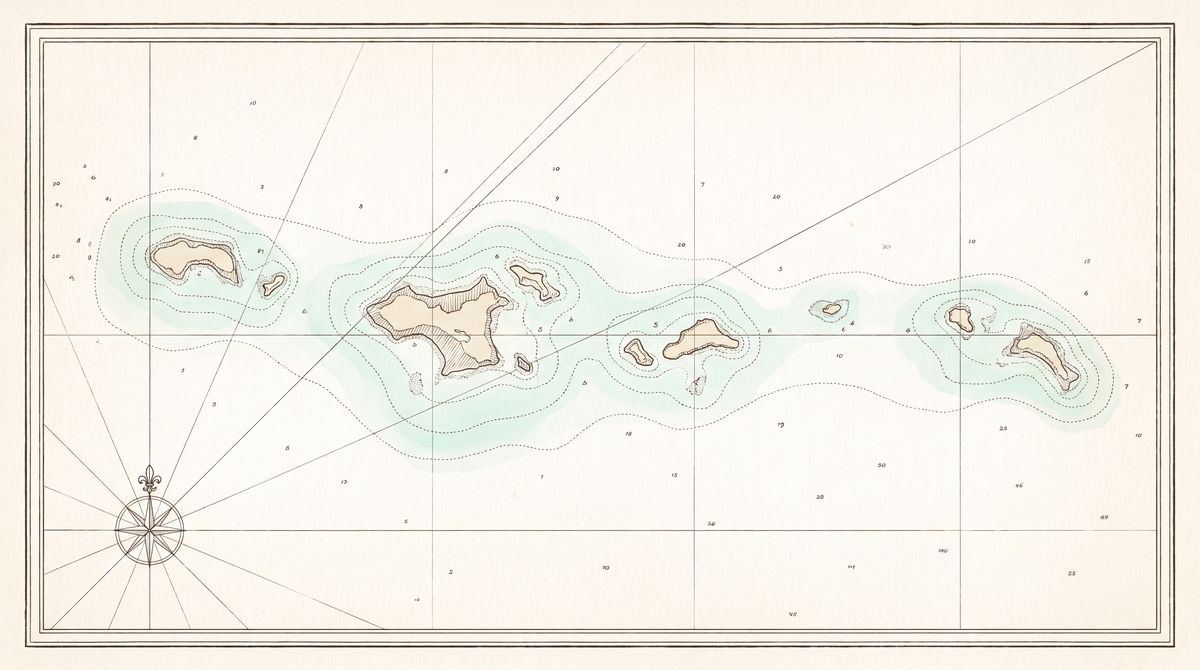
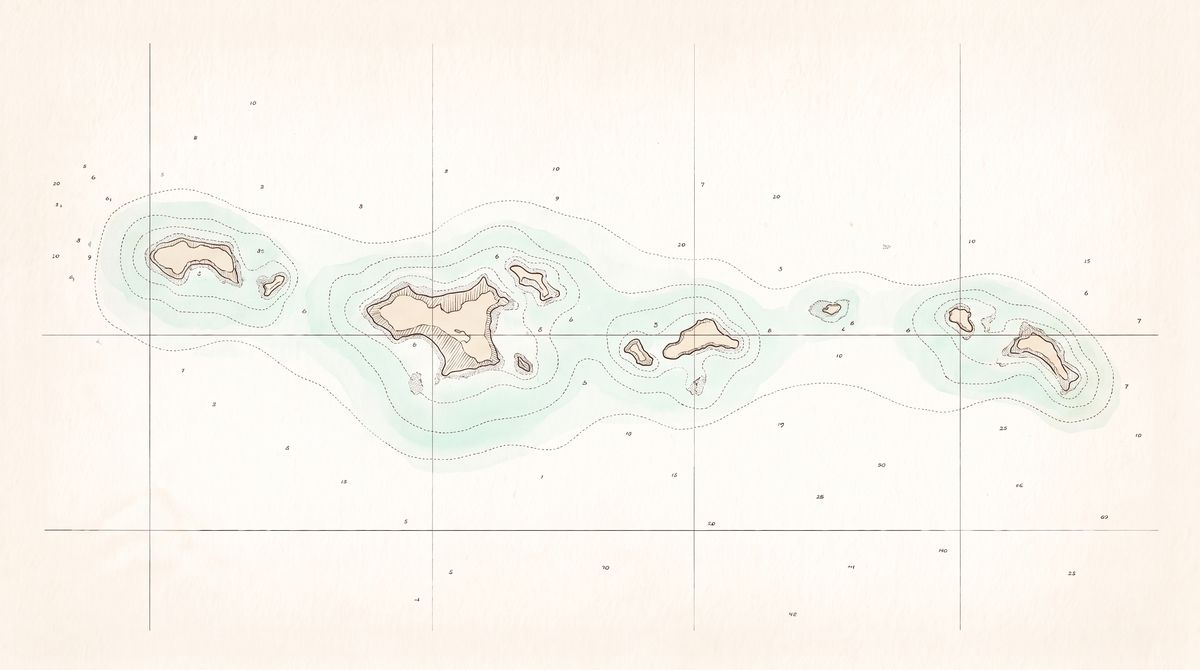
Casa Verde: carta de fondo más limpia con nombre y botones en fila; brújula con magnetismo al norte; hover interactivo en botones de reserva

diff --git a/js/casas.js b/js/casas.js
@@ -256,8 +256,9 @@
       '</div></section>' +
 
       /* CTA */
-      '<section class="section cta-band' + (c.brujula ? ' cta-band--compass' : '') + (c.carta ? ' cta-band--carta' : '') + '"><div class="container text-center stack stack--center">' +
+      '<section class="section cta-band' + (c.brujula ? ' cta-band--compass' : '') + (c.carta ? ' cta-band--carta' : '') + '">' +
         (c.carta ? cartaHTML(c) : '') +
+        '<div class="container text-center stack stack--center">' +
         (c.brujula ? '<div class="cta-compass" aria-hidden="true"><span class="compass-ring"></span><span class="compass-ring compass-ring--2"></span><img class="compass-rose" src="' + esc(c.brujula) + '" alt="" loading="lazy" decoding="async"></div>' : '') +
         '<h2 class="h2">' + esc(c.nombre) + '</h2>' +
         '<div class="cta-actions">' + waBtn + sitio + '</div>' +
@@ -277,15 +278,15 @@
       dots += '<circle class="carta-dest" style="--i:' + i + '" cx="' + dd.x + '" cy="' + dd.y + '" r="7" fill="' + col + '"/>';
       labels += '<text class="carta-label" style="--i:' + i + '" x="' + dd.x + '" y="' + (dd.y - 22) + '" text-anchor="middle">' + esc(dd.nombre) + '</text>';
     });
-    return '<figure class="carta" aria-label="' + esc(c.nombre) + '">' +
-      '<img src="' + esc(k.img_small) + '" srcset="' + esc(k.img_small) + ' 1200w, ' + esc(k.img) + ' 2400w" sizes="(min-width: 1100px) 1000px, 92vw" alt="" loading="lazy" decoding="async">' +
+    return '<div class="carta" aria-hidden="true">' +
+      '<img src="' + esc(k.img_small) + '" srcset="' + esc(k.img_small) + ' 1200w, ' + esc(k.img) + ' 2400w" sizes="100vw" alt="" loading="lazy" decoding="async">' +
       '<svg viewBox="0 0 2000 1116" preserveAspectRatio="xMidYMid slice" aria-hidden="true">' +
         '<defs>' + masks + '</defs>' +
         '<g>' + routes + '</g>' + dots + labels +
         '<circle class="carta-pulse" cx="' + o[0] + '" cy="' + o[1] + '" r="10" fill="none" stroke="' + col + '" stroke-width="3"/>' +
         '<circle cx="' + o[0] + '" cy="' + o[1] + '" r="11" fill="' + col + '" stroke="#fff" stroke-width="4"/>' +
         '<text class="carta-origin" x="' + o[0] + '" y="' + (o[1] + 48) + '" text-anchor="middle">' + esc(k.origen_nombre) + '</text>' +
-      '</svg></figure>';
+      '</svg></div>';
   }
   function initCarta() {
     var el = document.querySelector('.carta');
@@ -302,29 +303,68 @@
   function initCompass() {
     var rose = document.querySelector('.compass-rose');
     if (!rose || window.matchMedia('(prefers-reduced-motion: reduce)').matches) return;
-    var target = -120, current = -120, raf = null;
-    function measure() {
+    /* Aguja con "magnetismo" al norte: el scroll la empuja un poco, un resorte la
+       devuelve a 0° con un vaivén amortiguado, como una brújula real. */
+    var angle = 0, vel = 0, lastY = window.scrollY, raf = null, idle = 0;
+    function kick() {
+      var y = window.scrollY, dy = y - lastY; lastY = y;
+      vel += Math.max(-1.6, Math.min(1.6, dy * 0.025));   /* empujón leve según la velocidad del scroll */
+      idle = 0;
+      if (!raf) raf = requestAnimationFrame(tick);
+    }
+    function tick(t) {
+      vel += -angle * 0.05;                          /* resorte hacia el norte */
+      vel *= 0.86;                                     /* amortiguación */
+      angle += vel;
+      angle = Math.max(-12, Math.min(12, angle));      /* nunca se aleja demasiado del norte */
+      var tremble = Math.sin((t || 0) / 900) * 0.4;   /* temblor mínimo de aguja */
+      rose.style.transform = 'rotate(' + (angle + tremble).toFixed(2) + 'deg)';
+      idle++;
+      raf = requestAnimationFrame(tick);
+    }
+    function reveal() {
       var sec = rose.closest('section'); if (!sec) return;
       var r = sec.getBoundingClientRect(), vh = window.innerHeight;
       var p = Math.min(1, Math.max(0, (vh - r.top) / (vh + r.height)));
-      target = -120 + p * 240;                       /* gira con el scroll */
       rose.parentNode.style.setProperty('--p', p.toFixed(3));
-      if (!raf) raf = requestAnimationFrame(tick);
     }
-    function tick() {
-      /* inercia: la aguja se acomoda suavemente y con un leve rebote */
-      current += (target - current) * 0.08;
-      var wobble = Math.sin(Date.now() / 900) * 1.5;  /* balanceo mínimo, como una brújula real */
-      rose.style.transform = 'rotate(' + (current + wobble).toFixed(2) + 'deg)';
-      if (Math.abs(target - current) > 0.05 || rose.getBoundingClientRect().top < window.innerHeight) raf = requestAnimationFrame(tick);
-      else raf = null;
-    }
-    measure();
+    reveal(); raf = requestAnimationFrame(tick);
     if (!compassBound) {
       compassBound = true;
-      window.addEventListener('scroll', measure, { passive: true });
-      window.addEventListener('resize', measure);
+      window.addEventListener('scroll', function () { kick(); reveal(); }, { passive: true });
+      window.addEventListener('resize', reveal);
     }
+  }
+
+  /* Carta náutica con rutas que se dibujan (estilo carta de navegación) */
+  function cartaHTML(c) {
+    var k = c.carta, o = k.origen, col = esc(k.color || '#2BA88C');
+    var routes = '', masks = '', dots = '', labels = '';
+    (k.destinos || []).forEach(function (dd, i) {
+      var d = 'M ' + o[0] + ' ' + o[1] + ' Q ' + dd.curva[0] + ' ' + dd.curva[1] + ' ' + dd.x + ' ' + dd.y;
+      masks += '<mask id="cm' + i + '" maskUnits="userSpaceOnUse"><path class="carta-draw" style="--i:' + i + '" d="' + d + '" pathLength="1" stroke="#fff" stroke-width="14" fill="none"/></mask>';
+      routes += '<path d="' + d + '" mask="url(#cm' + i + ')" stroke="' + col + '" stroke-width="5" stroke-dasharray="3 11" stroke-linecap="round" fill="none"/>';
+      dots += '<circle class="carta-dest" style="--i:' + i + '" cx="' + dd.x + '" cy="' + dd.y + '" r="7" fill="' + col + '"/>';
+      labels += '<text class="carta-label" style="--i:' + i + '" x="' + dd.x + '" y="' + (dd.y - 22) + '" text-anchor="middle">' + esc(dd.nombre) + '</text>';
+    });
+    return '<div class="carta" aria-hidden="true">' +
+      '<img src="' + esc(k.img_small) + '" srcset="' + esc(k.img_small) + ' 1200w, ' + esc(k.img) + ' 2400w" sizes="100vw" alt="" loading="lazy" decoding="async">' +
+      '<svg viewBox="0 0 2000 1116" preserveAspectRatio="xMidYMid slice" aria-hidden="true">' +
+        '<defs>' + masks + '</defs>' +
+        '<g>' + routes + '</g>' + dots + labels +
+        '<circle class="carta-pulse" cx="' + o[0] + '" cy="' + o[1] + '" r="10" fill="none" stroke="' + col + '" stroke-width="3"/>' +
+        '<circle cx="' + o[0] + '" cy="' + o[1] + '" r="11" fill="' + col + '" stroke="#fff" stroke-width="4"/>' +
+        '<text class="carta-origin" x="' + o[0] + '" y="' + (o[1] + 48) + '" text-anchor="middle">' + esc(k.origen_nombre) + '</text>' +
+      '</svg></div>';
+  }
+  function initCarta() {
+    var el = document.querySelector('.carta');
+    if (!el) return;
+    if (!('IntersectionObserver' in window) || window.matchMedia('(prefers-reduced-motion: reduce)').matches) { el.classList.add('is-drawn'); return; }
+    var io = new IntersectionObserver(function (es) {
+      es.forEach(function (e) { if (e.isIntersecting) { el.classList.add('is-drawn'); io.disconnect(); } });
+    }, { threshold: 0.35 });
+    io.observe(el);
   }
 
   /* ---------- Formulario de contacto -> WhatsApp ---------- */

diff --git a/css/components.css b/css/components.css
@@ -904,3 +904,73 @@ h1, h2, h3, .h1, .h2, .h3, .card-title, .product-name, .room-name, .facts-list d
 @keyframes carta-pulse { 0% { transform: scale(1); opacity: .9; } 100% { transform: scale(4); opacity: 0; } }
 @media (max-width: 599px) { .carta { border-radius: 12px; } .carta-label { font-size: 40px; } .carta-origin { font-size: 44px; } }
 @media (prefers-reduced-motion: reduce) { .carta, .carta-draw, .carta-dest, .carta-label { transition: none !important; } .carta-pulse { animation: none; } }
+
+/* Carta como FONDO de la sección (no tarjeta), sección compacta */
+.cta-band--carta {
+  position: relative; isolation: isolate; overflow: hidden;
+  min-height: clamp(340px, 34vw, 460px);
+  padding-block: var(--space-4);
+  display: flex; align-items: flex-end;
+  background: #F7F2E8;
+}
+.cta-band--carta > .container { position: relative; z-index: 2; }
+.cta-band--carta .carta {
+  position: absolute; inset: 0; z-index: 0; width: auto; aspect-ratio: auto;
+  border-radius: 0; box-shadow: none; transform: none;
+}
+.cta-band--carta .carta.is-drawn { transform: none; }
+.cta-band--carta::after { /* velo crema solo abajo, detrás del nombre y los botones */
+  content: ""; position: absolute; inset: 0; z-index: 1; pointer-events: none;
+  background: linear-gradient(to top, rgba(247, 242, 232, .92) 0%, rgba(247, 242, 232, .6) 26%, rgba(247, 242, 232, 0) 46%);
+}
+.cta-band--carta .stack { gap: 0.75rem; }
+.cta-band--carta .h2 { margin: 0; }
+@media (max-width: 599px) {
+  .cta-band--carta { min-height: 360px; padding-block: var(--space-3); }
+  .cta-band--carta .carta-label { font-size: 34px; }
+}
+.cta-band--carta > .container { width: 100%; }
+/* Casa Verde: nombre + botones en una sola fila sobre la carta */
+.cta-band--carta .stack { flex-direction: row; flex-wrap: wrap; justify-content: center; align-items: center; gap: 0.75rem 1.5rem; }
+.cta-band--carta .h2 { font-size: clamp(1.5rem, 1.2rem + 1vw, 2rem); }
+.cta-band--carta .cta-actions { flex-wrap: nowrap; }
+@media (max-width: 599px) {
+  .cta-band--carta .stack { flex-direction: column; gap: 0.6rem; }
+}
+
+/* ==========================================================================
+   Botones de reserva (WhatsApp / Visitar sitio) — hover interactivo
+   ========================================================================== */
+.cta-actions .btn {
+  position: relative; overflow: hidden; isolation: isolate;
+  transition: transform .35s cubic-bezier(.2,.8,.2,1), box-shadow .35s var(--ease), color .35s var(--ease), border-color .35s var(--ease), letter-spacing .35s var(--ease);
+}
+.cta-actions .btn::before { /* relleno que sube desde abajo */
+  content: ""; position: absolute; inset: 0; z-index: -1;
+  transform: translateY(101%); transition: transform .45s cubic-bezier(.2,.8,.2,1);
+}
+.cta-actions .btn::after { /* flecha que entra desde la izquierda */
+  content: "→"; display: inline-block; width: 0; opacity: 0; margin-left: 0;
+  transform: translateX(-8px); transition: width .35s var(--ease), opacity .35s var(--ease), transform .35s var(--ease), margin .35s var(--ease);
+}
+.cta-actions .btn-primary::before { background: linear-gradient(135deg, #7FB6FA 0%, #A1CAFE 100%); }
+.cta-actions .btn-outline { background: rgba(255, 255, 255, .7); backdrop-filter: blur(6px); -webkit-backdrop-filter: blur(6px); }
+.cta-actions .btn-outline::before { background: var(--color-brand-soft); }
+@media (hover: hover) {
+  .cta-actions .btn:hover { transform: translateY(-3px); text-decoration: none; }
+  .cta-actions .btn:hover::before { transform: translateY(0); }
+  .cta-actions .btn:hover::after { width: 1em; opacity: 1; margin-left: .5em; transform: none; }
+  .cta-actions .btn-primary:hover { box-shadow: 0 14px 28px -10px rgba(60, 130, 220, .6), 0 0 0 4px rgba(161, 202, 254, .35); }
+  .cta-actions .btn-outline:hover { border-color: var(--color-brand); box-shadow: 0 12px 24px -12px rgba(60, 130, 220, .45); }
+}
+.cta-actions .btn:active { transform: translateY(0) scale(.97); transition-duration: .12s; }
+.cta-actions .btn:focus-visible { outline: none; box-shadow: 0 0 0 4px rgba(161, 202, 254, .7); }
+/* la flecha aparece sin empujar al otro botón */
+.cta-actions .btn::after { position: absolute; right: 1.1rem; width: auto; margin: 0; }
+@media (hover: hover) { .cta-actions .btn:hover { padding-right: 2.6rem; padding-left: 1.2rem; } .cta-actions .btn:hover::after { width: auto; margin: 0; } }
+.cta-actions .btn { transition-property: transform, box-shadow, color, border-color, padding; }
+/* ancho constante: la flecha se acomoda dentro del espacio reservado */
+.cta-actions .btn { padding-left: 1.5rem; padding-right: 2.4rem; }
+@media (hover: hover) { .cta-actions .btn:hover { padding-left: 1.5rem; padding-right: 2.4rem; } }
+.cta-actions .btn::after { right: 0.95rem; }
+@media (max-width: 480px) { .cta-actions .btn { padding-left: 0.65rem; padding-right: 0.65rem; } .cta-actions .btn::after { display: none; } }

diff --git a/index.html b/index.html
@@ -36,9 +36,9 @@
   <link rel="preconnect" href="https://fonts.googleapis.com">
   <link rel="preconnect" href="https://fonts.gstatic.com" crossorigin>
   <link href="https://fonts.googleapis.com/css2?family=Marcellus&family=Tenor+Sans&display=swap" rel="stylesheet">
-  <link rel="stylesheet" href="css/base.css?v=20260930o">
-  <link rel="stylesheet" href="css/layout.css?v=20260930o">
-  <link rel="stylesheet" href="css/components.css?v=20260930o">
+  <link rel="stylesheet" href="css/base.css?v=20260930w">
+  <link rel="stylesheet" href="css/layout.css?v=20260930w">
+  <link rel="stylesheet" href="css/components.css?v=20260930w">
 </head>
 <body>
   <!-- Pantalla de carga con el logo (la controla js/main.js) -->
@@ -155,9 +155,9 @@
   <!-- 8. Footer (lo genera js/main.js) -->
   <footer id="site-footer"></footer>
 
-  <script src="js/i18n.js?v=20260930o"></script>
-  <script src="js/main.js?v=20260930o"></script>
-  <script src="js/casas.js?v=20260930o"></script>
-  <script src="js/merch.js?v=20260930o"></script>
+  <script src="js/i18n.js?v=20260930w"></script>
+  <script src="js/main.js?v=20260930w"></script>
+  <script src="js/casas.js?v=20260930w"></script>
+  <script src="js/merch.js?v=20260930w"></script>
 </body>
 </html>

diff --git a/los-roques.html b/los-roques.html
@@ -35,9 +35,9 @@
   <link rel="preconnect" href="https://fonts.googleapis.com">
   <link rel="preconnect" href="https://fonts.gstatic.com" crossorigin>
   <link href="https://fonts.googleapis.com/css2?family=Marcellus&family=Tenor+Sans&display=swap" rel="stylesheet">
-  <link rel="stylesheet" href="css/base.css?v=20260930o">
-  <link rel="stylesheet" href="css/layout.css?v=20260930o">
-  <link rel="stylesheet" href="css/components.css?v=20260930o">
+  <link rel="stylesheet" href="css/base.css?v=20260930w">
+  <link rel="stylesheet" href="css/layout.css?v=20260930w">
+  <link rel="stylesheet" href="css/components.css?v=20260930w">
 </head>
 <body>
   <!-- Pantalla de carga con el logo (la controla js/main.js) -->
@@ -138,9 +138,9 @@
 
   <footer id="site-footer"></footer>
 
-  <script src="js/i18n.js?v=20260930o"></script>
-  <script src="js/main.js?v=20260930o"></script>
-  <script src="js/casas.js?v=20260930o"></script>
-  <script src="js/galeria.js?v=20260930o"></script>
+  <script src="js/i18n.js?v=20260930w"></script>
+  <script src="js/main.js?v=20260930w"></script>
+  <script src="js/casas.js?v=20260930w"></script>
+  <script src="js/galeria.js?v=20260930w"></script>
 </body>
 </html>

diff --git a/casa.html b/casa.html
@@ -36,9 +36,9 @@
   <link rel="preconnect" href="https://fonts.googleapis.com">
   <link rel="preconnect" href="https://fonts.gstatic.com" crossorigin>
   <link href="https://fonts.googleapis.com/css2?family=Marcellus&family=Tenor+Sans&display=swap" rel="stylesheet">
-  <link rel="stylesheet" href="css/base.css?v=20260930o">
-  <link rel="stylesheet" href="css/layout.css?v=20260930o">
-  <link rel="stylesheet" href="css/components.css?v=20260930o">
+  <link rel="stylesheet" href="css/base.css?v=20260930w">
+  <link rel="stylesheet" href="css/layout.css?v=20260930w">
+  <link rel="stylesheet" href="css/components.css?v=20260930w">
 </head>
 <body>
   <!-- Pantalla de carga con el logo (la controla js/main.js) -->
@@ -62,9 +62,9 @@
 
   <footer id="site-footer"></footer>
 
-  <script src="js/i18n.js?v=20260930o"></script>
-  <script src="js/main.js?v=20260930o"></script>
-  <script src="js/casas.js?v=20260930o"></script>
-  <script src="js/galeria.js?v=20260930o"></script>
+  <script src="js/i18n.js?v=20260930w"></script>
+  <script src="js/main.js?v=20260930w"></script>
+  <script src="js/casas.js?v=20260930w"></script>
+  <script src="js/galeria.js?v=20260930w"></script>
 </body>
 </html>

diff --git a/merchandise.html b/merchandise.html
@@ -35,9 +35,9 @@
   <link rel="preconnect" href="https://fonts.googleapis.com">
   <link rel="preconnect" href="https://fonts.gstatic.com" crossorigin>
   <link href="https://fonts.googleapis.com/css2?family=Marcellus&family=Tenor+Sans&display=swap" rel="stylesheet">
-  <link rel="stylesheet" href="css/base.css?v=20260930o">
-  <link rel="stylesheet" href="css/layout.css?v=20260930o">
-  <link rel="stylesheet" href="css/components.css?v=20260930o">
+  <link rel="stylesheet" href="css/base.css?v=20260930w">
+  <link rel="stylesheet" href="css/layout.css?v=20260930w">
+  <link rel="stylesheet" href="css/components.css?v=20260930w">
 </head>
 <body>
   <!-- Pantalla de carga con el logo (la controla js/main.js) -->
@@ -69,9 +69,9 @@
 
   <footer id="site-footer"></footer>
 
-  <script src="js/i18n.js?v=20260930o"></script>
-  <script src="js/main.js?v=20260930o"></script>
-  <script src="js/casas.js?v=20260930o"></script>
-  <script src="js/merch.js?v=20260930o"></script>
+  <script src="js/i18n.js?v=20260930w"></script>
+  <script src="js/main.js?v=20260930w"></script>
+  <script src="js/casas.js?v=20260930w"></script>
+  <script src="js/merch.js?v=20260930w"></script>
 </body>
 </html>

diff --git a/contacto.html b/contacto.html
@@ -35,9 +35,9 @@
   <link rel="preconnect" href="https://fonts.googleapis.com">
   <link rel="preconnect" href="https://fonts.gstatic.com" crossorigin>
   <link href="https://fonts.googleapis.com/css2?family=Marcellus&family=Tenor+Sans&display=swap" rel="stylesheet">
-  <link rel="stylesheet" href="css/base.css?v=20260930o">
-  <link rel="stylesheet" href="css/layout.css?v=20260930o">
-  <link rel="stylesheet" href="css/components.css?v=20260930o">
+  <link rel="stylesheet" href="css/base.css?v=20260930w">
+  <link rel="stylesheet" href="css/layout.css?v=20260930w">
+  <link rel="stylesheet" href="css/components.css?v=20260930w">
 </head>
 <body>
   <!-- Pantalla de carga con el logo (la controla js/main.js) -->
@@ -112,8 +112,8 @@
 
   <footer id="site-footer"></footer>
 
-  <script src="js/i18n.js?v=20260930o"></script>
-  <script src="js/main.js?v=20260930o"></script>
-  <script src="js/casas.js?v=20260930o"></script>
+  <script src="js/i18n.js?v=20260930w"></script>
+  <script src="js/main.js?v=20260930w"></script>
+  <script src="js/casas.js?v=20260930w"></script>
 </body>
 </html>

diff --git a/casas.html b/casas.html
@@ -35,9 +35,9 @@
   <link rel="preconnect" href="https://fonts.googleapis.com">
   <link rel="preconnect" href="https://fonts.gstatic.com" crossorigin>
   <link href="https://fonts.googleapis.com/css2?family=Marcellus&family=Tenor+Sans&display=swap" rel="stylesheet">
-  <link rel="stylesheet" href="css/base.css?v=20260930o">
-  <link rel="stylesheet" href="css/layout.css?v=20260930o">
-  <link rel="stylesheet" href="css/components.css?v=20260930o">
+  <link rel="stylesheet" href="css/base.css?v=20260930w">
+  <link rel="stylesheet" href="css/layout.css?v=20260930w">
+  <link rel="stylesheet" href="css/components.css?v=20260930w">
 </head>
 <body>
   <!-- Pantalla de carga con el logo (la controla js/main.js) -->
@@ -76,8 +76,8 @@
 
   <footer id="site-footer"></footer>
 
-  <script src="js/i18n.js?v=20260930o"></script>
-  <script src="js/main.js?v=20260930o"></script>
-  <script src="js/casas.js?v=20260930o"></script>
+  <script src="js/i18n.js?v=20260930w"></script>
+  <script src="js/main.js?v=20260930w"></script>
+  <script src="js/casas.js?v=20260930w"></script>
 </body>
 </html>

diff --git a/404.html b/404.html
@@ -35,9 +35,9 @@
   <link rel="preconnect" href="https://fonts.googleapis.com">
   <link rel="preconnect" href="https://fonts.gstatic.com" crossorigin>
   <link href="https://fonts.googleapis.com/css2?family=Marcellus&family=Tenor+Sans&display=swap" rel="stylesheet">
-  <link rel="stylesheet" href="css/base.css?v=20260930o">
-  <link rel="stylesheet" href="css/layout.css?v=20260930o">
-  <link rel="stylesheet" href="css/components.css?v=20260930o">
+  <link rel="stylesheet" href="css/base.css?v=20260930w">
+  <link rel="stylesheet" href="css/layout.css?v=20260930w">
+  <link rel="stylesheet" href="css/components.css?v=20260930w">
 </head>
 <body>
   <header id="site-header"></header>
@@ -52,7 +52,7 @@
     </section>
   </main>
   <footer id="site-footer"></footer>
-  <script src="js/i18n.js?v=20260930o"></script>
-  <script src="js/main.js?v=20260930o"></script>
+  <script src="js/i18n.js?v=20260930w"></script>
+  <script src="js/main.js?v=20260930w"></script>
 </body>
 </html>
